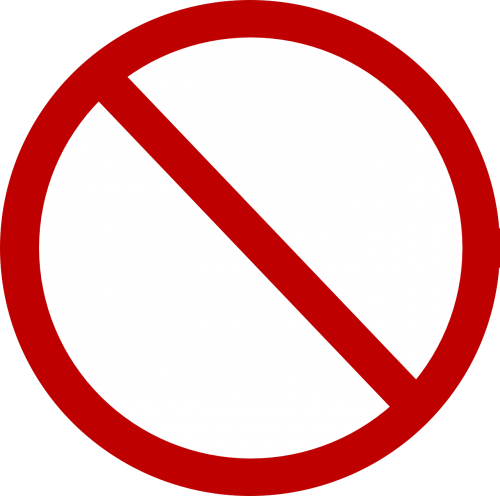
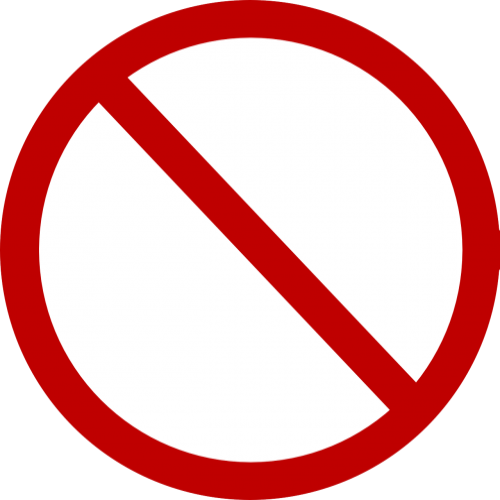
Added readme

diff --git a/popup.css b/popup.css
@@ -3,7 +3,6 @@ body {
     padding: 12px;
     width: 180px;
     background: #18191b;
-    border: none;
 }
 
 .row {

diff --git a/README.md b/README.md
@@ -1,0 +1,5 @@
+# Introduction
+Simple mozilla extension to hide youtube shorts. Hides
+- Shorts link in sidebar
+- Shorts in homepage
+- Shorts in search results
